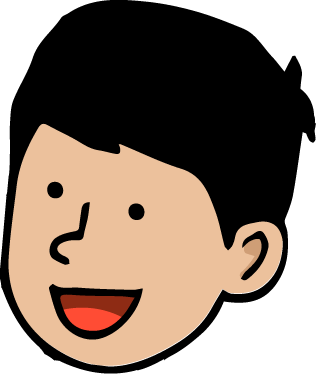
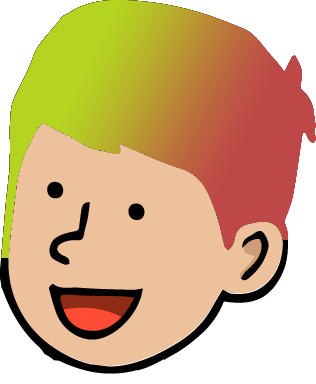
changed style of moneyeater

diff --git a/js/moneyeater.js b/js/moneyeater.js
@@ -2,6 +2,7 @@ var people = [];
 var moneys = [];
 var tosses = [];
 var moneyPic;
+var backGround;
 var person;
 var spark;
 var tossPic;
@@ -15,6 +16,7 @@ function setup() {
     moneyPic = loadImage("../img/moneyeater/50000s.png");
     spark = loadImage("../img/moneyeater/spark.png");
     tossPic = loadImage("../img/moneyeater/toss.png");
+    backGround = loadImage("../img/moneyeater/background.png");
     sparkTime = 0;
     
     // Add an initial set of people into the system
@@ -25,8 +27,9 @@ function setup() {
 
 function draw() {
     // Repaint gray on top each frame
-    background(51);
-    
+    //background(51);
+    //background(backGround);
+    background("rgb(6, 6, 46)");
     // Run all the people
     for (var i = 0; i < people.length; i++) {
         people[i].run(people);
@@ -257,7 +260,11 @@ Person.prototype.render = function () {
     }
  
     if(moneys.length > 0) {
-        image(happyPerson, 0, 0, happyPerson.width/4, happyPerson.height/4);
+        if ((Math.floor(sparkTime/15) % 2) == 0)  {
+            image(happyPerson, 0, 0, happyPerson.width/4, happyPerson.height/4);
+        } else {
+            image(person,0, 0, person.width/4, person.height/4);
+        }
   
     } else {
         image(person,0, 0, person.width/4, person.height/4);
@@ -332,6 +339,5 @@ Person.prototype.cohesion = function (people) {
         return this.seek(toWhere); // Steer towards the location
     } else {
         return createVector(0,0);
-        //return createVector(random(-0.003,0.003), random(-0.003,0.003)); // No effect if there's no money
     }
 }
